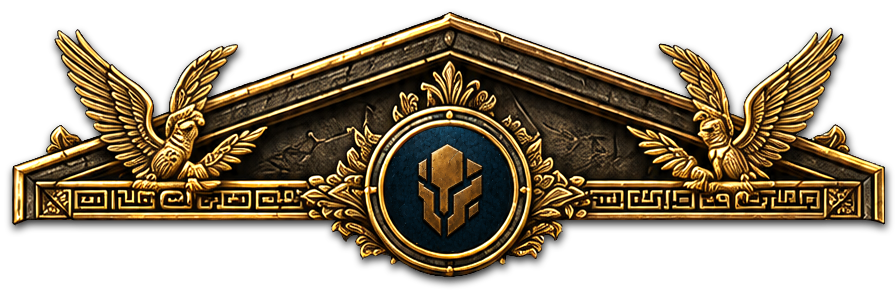
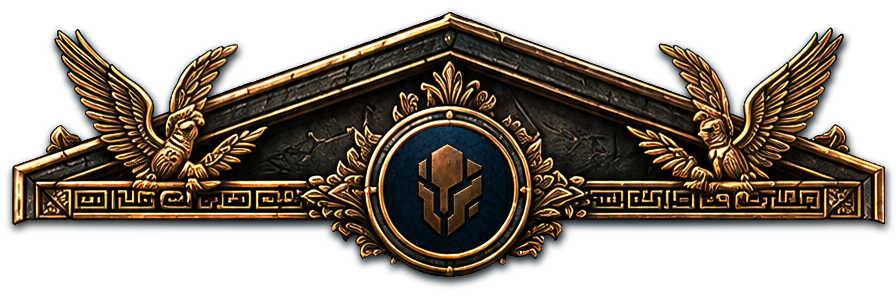
Build de producción para GitHub Pages + UI fixes
═══ GITHUB PAGES SETUP ════════════════════════════════════════════════════

- vite.config.ts: base = '/olympus-protocol/' en producción (dev sigue en /)
- vite.config.ts: outDir = '../docs' → build queda en raíz/docs/
- vite.config.ts: plugin closeBundle que copia index.html → 404.html
  (truco estándar para SPA fallback en GitHub Pages — sin esto los enlaces
   directos a /game/XYZ darían 404 real)
- App.tsx: BrowserRouter con basename={import.meta.env.BASE_URL} para
  que funcione tanto en dev como en producción
- roomService.buildRoomURL: usa BASE_URL en el pathname
- Menu.tsx: history.replaceState también usa BASE_URL

Bundle docs/: 208 KB gzipped (index.html + assets/index-*.{js,css} + 404.html
copiada + favicon + audio/ + images/).

═══ UI FIXES (sesión previa) ══════════════════════════════════════════════

Hand:
- Layout en grid con 2 capas apiladas (grid-area: stack):
  · placeholdersLayer: 5 slot.png siempre visibles (fijos)
  · cardsLayer: cartas animadas encima
- Cartas con stagger: enterDelay={i * 0.08} → entran en cascada
- Robo desde fuera del viewport (enterFromY = '100vh' local, '-100vh' rival)

Card:
- enterDelay en animate.transition (no global) para no afectar hover/tap
- Spring suave para entradas long-distance (damping 30)

Slot:
- Mi propia skill SIEMPRE face-up para mí (era bug: face-down a todos
  cuando estado 'hidden'; ahora solo face-down para el rival)
- slot.png permanente en .slot (no solo en .empty) para que esté visible
[…]

Changed region(s): [[0.0, 0.0301, 1.0, 0.9331]]

diff --git a/client/src/components/Hand/Hand.tsx b/client/src/components/Hand/Hand.tsx
@@ -1,8 +1,12 @@
 // ============================================================================
 // Hand — mano de cartas de un jugador.
-// Si es local: cartas face-up, clickeables. Si es rival: dorsos.
-// `AnimatePresence` permite que Framer Motion anime el enter/exit cuando
-// las cartas se añaden o se sacan de la mano.
+//
+// Layout en dos capas (CSS grid stack):
+//   1. placeholdersLayer (z-index implícito): 5 slot.png siempre visibles.
+//   2. cardsLayer: las cartas reales (AnimatePresence) montadas encima.
+//
+// Esto permite que la animación de entrada/salida de cartas sea independiente
+// del placeholder — el slot.png queda fijo y la carta vuela sobre él.
 // ============================================================================
 
 import Card from '@components/Card/Card';
@@ -30,29 +34,39 @@ export default function Hand({
   onCardClick,
   maxSlots = 5,
 }: HandProps) {
-  const placeholders = Math.max(0, maxSlots - cards.length);
+  // Robo viene desde fuera del viewport (abajo si es local, arriba si rival).
+  const enterFromY = isLocal ? '100vh' : '-100vh';
 
   return (
     <div className={clsx(styles.hand, isLocal ? styles.local : styles.opponent)}>
-      <AnimatePresence mode="popLayout">
-        {cards.map((card) => {
-          const isSelected =
-            card.instanceId === selectedInstanceId && (isLocal || !!showOpponentSelection);
-          return (
-            <Card
-              key={card.instanceId}
-              card={card}
-              faceDown={!isLocal}
-              selected={isLocal && isSelected}
-              opponentSelected={!isLocal && isSelected}
-              onClick={isLocal && onCardClick ? () => onCardClick(card.instanceId) : undefined}
-            />
-          );
-        })}
-      </AnimatePresence>
-      {Array.from({ length: placeholders }, (_, i) => (
-        <div key={`ph-${playerId}-${i}`} className={styles.placeholder} />
-      ))}
+      {/* Capa 1 — placeholders estáticos. Siempre 5, nunca se animan. */}
+      <div className={styles.placeholdersLayer}>
+        {Array.from({ length: maxSlots }, (_, i) => (
+          <div className={styles.placeholder} key={`ph-${playerId}-${i}`} />
+        ))}
+      </div>
+
+      {/* Capa 2 — cartas animadas, montadas encima. */}
+      <div className={styles.cardsLayer}>
+        <AnimatePresence mode="popLayout">
+          {cards.map((card, i) => {
+            const isSelected =
+              card.instanceId === selectedInstanceId && (isLocal || !!showOpponentSelection);
+            return (
+              <Card
+                key={card.instanceId}
+                card={card}
+                faceDown={!isLocal}
+                selected={isLocal && isSelected}
+                opponentSelected={!isLocal && isSelected}
+                onClick={isLocal && onCardClick ? () => onCardClick(card.instanceId) : undefined}
+                enterFromY={enterFromY}
+                enterDelay={i * 0.08}
+              />
+            );
+          })}
+        </AnimatePresence>
+      </div>
     </div>
   );
 }

diff --git a/client/src/components/Card/Card.tsx b/client/src/components/Card/Card.tsx
@@ -21,14 +21,14 @@ interface CardProps {
   onClick?: () => void;
   variant?: 'inHand' | 'inSlot';
   skillState?: 'hidden' | 'active' | 'consumed';
+  /** Posición Y inicial para la animación de entrada (default: -16 px).
+   *  Acepta `'100vh'` o `'-100vh'` para que la carta venga desde fuera
+   *  del viewport (efecto de robo de mazo). */
+  enterFromY?: number | string;
+  /** Delay en segundos para la animación de entrada (stagger cuando entran
+   *  varias cartas a la vez). Solo aplica al mount inicial. */
+  enterDelay?: number;
 }
-
-const cardMotion = {
-  initial: { opacity: 0, y: -16, scale: 0.92 },
-  animate: { opacity: 1, y: 0, scale: 1 },
-  exit: { opacity: 0, scale: 0.85, transition: { duration: 0.18 } },
-  transition: { type: 'spring', stiffness: 320, damping: 26 } as const,
-};
 
 export default function Card({
   card,
@@ -39,7 +39,31 @@ export default function Card({
   onClick,
   variant = 'inHand',
   skillState,
+  enterFromY = -16,
+  enterDelay = 0,
 }: CardProps) {
+  // Spring-based entrance. La Y inicial es parametrizable para que el robo
+  // pueda venir desde fuera de la pantalla (Hand pasa '100vh' o '-100vh').
+  // Cuando viene desde lejos suavizamos el spring (damping mayor) para no
+  // overshoot demasiado al llegar.
+  const isLongDistance =
+    typeof enterFromY === 'string' && (enterFromY.includes('vh') || enterFromY.includes('%'));
+  const baseSpring = isLongDistance
+    ? ({ type: 'spring', stiffness: 220, damping: 30 } as const)
+    : ({ type: 'spring', stiffness: 320, damping: 26 } as const);
+  const cardMotion = {
+    initial: { opacity: 0, y: enterFromY, scale: 0.92 },
+    // El delay vive en animate.transition (no en el global) para que solo
+    // afecte al mount inicial, no a hover/tap subsecuentes.
+    animate: {
+      opacity: 1,
+      y: 0,
+      scale: 1,
+      transition: { ...baseSpring, delay: enterDelay },
+    },
+    exit: { opacity: 0, scale: 0.85, transition: { duration: 0.18 } },
+  };
+
   const className = clsx(
     styles.card,
     variant === 'inSlot' && styles.inSlot,
@@ -63,7 +87,6 @@ export default function Card({
         initial={cardMotion.initial}
         animate={cardMotion.animate}
         exit={cardMotion.exit}
-        transition={cardMotion.transition}
         whileHover={onClick ? { y: -6 } : undefined}
         whileTap={onClick ? { scale: 0.96 } : undefined}
       >
@@ -85,7 +108,6 @@ export default function Card({
       initial={cardMotion.initial}
       animate={cardMotion.animate}
       exit={cardMotion.exit}
-      transition={cardMotion.transition}
       whileHover={onClick ? { y: -6 } : undefined}
       whileTap={onClick ? { scale: 0.96 } : undefined}
     >

diff --git a/client/src/components/Hand/Hand.module.css b/client/src/components/Hand/Hand.module.css
@@ -1,22 +1,27 @@
+/* Layout en grid con 1 sola "cell" donde se apilan ambas capas
+   (técnica de grid stacking). Las dos capas reciben grid-area: stack
+   y por lo tanto comparten exactamente las mismas dimensiones. */
 .hand {
+  display: grid;
+  grid-template-areas: 'stack';
+  min-height: 0;
+  align-content: start;
+}
+
+.placeholdersLayer,
+.cardsLayer {
+  grid-area: stack;
   display: flex;
   gap: 6px;
   flex-wrap: wrap;
   align-content: flex-start;
-  padding: 0;
-  min-height: 0;
-  overflow-y: auto;
-  background: transparent;
 }
 
-.local {
+/* Capa de placeholders: siempre visible, no interactiva. */
+.placeholdersLayer {
+  pointer-events: none;
 }
 
-.opponent {
-  opacity: 0.95;
-}
-
-/* Placeholder de carta no robada todavía (usa slot.png con opacity) */
 .placeholder {
   width: 190px;
   height: 266px;
@@ -24,11 +29,14 @@
   border-radius: 6px;
   flex-shrink: 0;
   opacity: 0.55;
-  pointer-events: none;
 }
 
-/* La mano del rival es face-down: cartas más pequeñas (no in-hand) */
-.opponent .placeholder {
-  width: 135px;
-  height: 189px;
+/* Capa de cartas: las cartas se renderizan encima de los placeholders,
+   alineadas por el mismo flex layout. */
+.cardsLayer {
+  /* z-index implícito por orden de DOM (es el segundo grid item) */
+}
+
+/* La mano del rival es ligeramente más opaca */
+.opponent {
 }

diff --git a/client/vite.config.ts b/client/vite.config.ts
@@ -1,11 +1,38 @@
 /// <reference types="vitest/config" />
-import { defineConfig } from 'vite';
 import react from '@vitejs/plugin-react';
+import { copyFileSync, existsSync } from 'node:fs';
 import path from 'node:path';
+import { defineConfig } from 'vite';
 
 // https://vite.dev/config/
-export default defineConfig({
-  plugins: [react()],
+export default defineConfig(({ command }) => ({
+  plugins: [
+    react(),
+    // Post-build: copia index.html → 404.html en el outDir para que GitHub
+    // Pages sirva el SPA cuando el usuario llega directo a /game/XYZ.
+    // (GitHub Pages no tiene SPA fallback nativo; el truco del 404 es
+    //  estándar — la página 404 sirve el SPA y React Router maneja la ruta.)
+    {
+      name: 'copy-index-to-404',
+      closeBundle() {
+        const outDir = path.resolve(__dirname, '../docs');
+        const indexHtml = path.join(outDir, 'index.html');
+        const notFoundHtml = path.join(outDir, '404.html');
+        if (existsSync(indexHtml)) {
+          copyFileSync(indexHtml, notFoundHtml);
+        }
+      },
+    },
+  ],
+  // En producción servimos bajo /olympus-protocol/ (GitHub Pages).
+  // En dev (vite serve) usamos / normal.
+  base: command === 'build' ? '/olympus-protocol/' : '/',
+  build: {
+    // Build output en la raíz del repo /docs (configurable como source en
+    // GitHub Pages: Settings → Pages → Source: main branch /docs).
+    outDir: '../docs',
+    emptyOutDir: true,
+  },
   resolve: {
     alias: {
       '@': path.resolve(__dirname, './src'),
@@ -24,4 +51,4 @@ export default defineConfig({
     setupFiles: ['./src/test/setup.ts'],
     css: true,
   },
-});
+}));

diff --git a/docs/404.html b/docs/404.html
@@ -1,0 +1,20 @@
+<!doctype html>
+<html lang="en">
+  <head>
+    <meta charset="UTF-8" />
+    <link rel="icon" type="image/svg+xml" href="/olympus-protocol/favicon.svg" />
+    <meta name="viewport" content="width=device-width, initial-scale=1.0" />
+    <link rel="preconnect" href="https://fonts.googleapis.com" />
+    <link rel="preconnect" href="https://fonts.gstatic.com" crossorigin />
+    <link
+      href="https://fonts.googleapis.com/css2?family=Asimovian&family=Cinzel:wght@400;500;600;700;800;900&family=Cormorant+Garamond:ital,wght@0,300;0,400;0,500;0,600;0,700;1,400;1,500;1,600&display=swap"
+      rel="stylesheet"
+    />
+    <title>Olympus Protocol</title>
+    <script type="module" crossorigin src="/olympus-protocol/assets/index-Cr3luInK.js"></script>
+    <link rel="stylesheet" crossorigin href="/olympus-protocol/assets/index-wfhoj4n7.css">
+  </head>
+  <body>
+    <div id="root"></div>
+  </body>
+</html>

diff --git a/docs/index.html b/docs/index.html
@@ -1,0 +1,20 @@
+<!doctype html>
+<html lang="en">
+  <head>
+    <meta charset="UTF-8" />
+    <link rel="icon" type="image/svg+xml" href="/olympus-protocol/favicon.svg" />
+    <meta name="viewport" content="width=device-width, initial-scale=1.0" />
+    <link rel="preconnect" href="https://fonts.googleapis.com" />
+    <link rel="preconnect" href="https://fonts.gstatic.com" crossorigin />
+    <link
+      href="https://fonts.googleapis.com/css2?family=Asimovian&family=Cinzel:wght@400;500;600;700;800;900&family=Cormorant+Garamond:ital,wght@0,300;0,400;0,500;0,600;0,700;1,400;1,500;1,600&display=swap"
+      rel="stylesheet"
+    />
+    <title>Olympus Protocol</title>
+    <script type="module" crossorigin src="/olympus-protocol/assets/index-Cr3luInK.js"></script>
+    <link rel="stylesheet" crossorigin href="/olympus-protocol/assets/index-wfhoj4n7.css">
+  </head>
+  <body>
+    <div id="root"></div>
+  </body>
+</html>

diff --git a/client/src/components/Slot/Slot.module.css b/client/src/components/Slot/Slot.module.css
@@ -1,7 +1,12 @@
 .slot {
   width: 144px;
   height: 202px;
-  background: rgba(0, 0, 0, 0.25);
+  /* slot.png SIEMPRE como background — así sigue visible mientras la carta
+     anima desde fuera de pantalla y solo es cubierta cuando la carta llega
+     a su posición final. */
+  background:
+    url('/images/slot.png') center / contain no-repeat,
+    rgba(0, 0, 0, 0.25);
   border: none;
   border-radius: 6px;
   display: flex;
@@ -13,10 +18,6 @@
 }
 
 .slot.empty {
-  /* Imagen tenue de "slot" para que no se vea vacío */
-  background:
-    url('/images/slot.png') center / contain no-repeat,
-    rgba(0, 0, 0, 0.25);
   opacity: 0.8;
 }
 

diff --git a/client/src/App.tsx b/client/src/App.tsx
@@ -1,11 +1,16 @@
 // Router root. Define las rutas top-level del cliente.
+// El basename viene de Vite (import.meta.env.BASE_URL) para que funcione
+// tanto en dev (/) como en producción (/olympus-protocol/).
 import Game from '@pages/Game';
 import Menu from '@pages/Menu';
 import { BrowserRouter, Navigate, Route, Routes } from 'react-router-dom';
 
+// BASE_URL viene con trailing slash; React Router prefiere sin trailing.
+const basename = import.meta.env.BASE_URL.replace(/\/$/, '') || '/';
+
 function App() {
   return (
-    <BrowserRouter>
+    <BrowserRouter basename={basename}>
       <Routes>
         <Route path="/" element={<Menu />} />
         <Route path="/game/:roomId" element={<Game />} />

diff --git a/client/src/services/roomService.ts b/client/src/services/roomService.ts
@@ -176,12 +176,15 @@ export function getRoomIdFromURL(): string | null {
 }
 
 /** Construye una URL absoluta apuntando a la raíz con `?room=XYZ`.
+ *  Usa import.meta.env.BASE_URL para que el path correcto funcione tanto
+ *  en dev ('/') como en producción ('/olympus-protocol/').
  *  El destinatario debe llegar al Menu para que la auth anónima cree su
  *  propio usuario antes de unirse — si lo mandamos directo a /game/XYZ
  *  recibe "you are not seated in this room" porque aún no se unió. */
 export function buildRoomURL(roomId: string): string {
   const url = new URL(window.location.href);
-  url.pathname = '/';
-  url.searchParams.set('room', roomId);
+  url.pathname = import.meta.env.BASE_URL;
+  url.search = `?room=${roomId}`;
+  url.hash = '';
   return url.toString();
 }

diff --git a/client/src/components/Slot/Slot.tsx b/client/src/components/Slot/Slot.tsx
@@ -52,7 +52,10 @@ export default function Slot({
         <Card
           card={card}
           variant="inSlot"
-          faceDown={hideSkillFromOpponent || (slot === 'skill' && skillState === 'hidden')}
+          /* Solo cara-abajo cuando es la skill del rival y está hidden.
+             Mi propia skill SIEMPRE se ve face-up para mí (es mi carta).
+             El rival la ve face-down hasta que se voltea (active). */
+          faceDown={hideSkillFromOpponent}
           skillState={skillState}
         />
       ) : (

diff --git a/client/src/components/Sidebar/Sidebar.module.css b/client/src/components/Sidebar/Sidebar.module.css
@@ -25,9 +25,9 @@
 }
 
 .title {
-  margin: 0;
+  margin: 24px 0 0;
   color: var(--gold);
-  font-size: 22px;
+  font-size: 20px;
   letter-spacing: 0.08em;
   font-family: 'Cinzel', 'Times New Roman', serif;
   font-weight: 700;

diff --git a/client/src/pages/Menu.tsx b/client/src/pages/Menu.tsx
@@ -74,7 +74,7 @@ export default function Menu() {
       setWaitingRoomId(roomId);
       setMode('waiting');
       // Actualiza la URL para que sea shareable, sin navegación.
-      window.history.replaceState({}, '', `/?room=${roomId}`);
+      window.history.replaceState({}, '', `${import.meta.env.BASE_URL}?room=${roomId}`);
     } catch (e: unknown) {
       setError(e instanceof Error ? e.message : String(e));
     } finally {
@@ -113,7 +113,7 @@ export default function Menu() {
   const handleCancelWaiting = (): void => {
     setMode('idle');
     setWaitingRoomId(null);
-    window.history.replaceState({}, '', '/');
+    window.history.replaceState({}, '', import.meta.env.BASE_URL);
   };
 
   if (authLoading) {